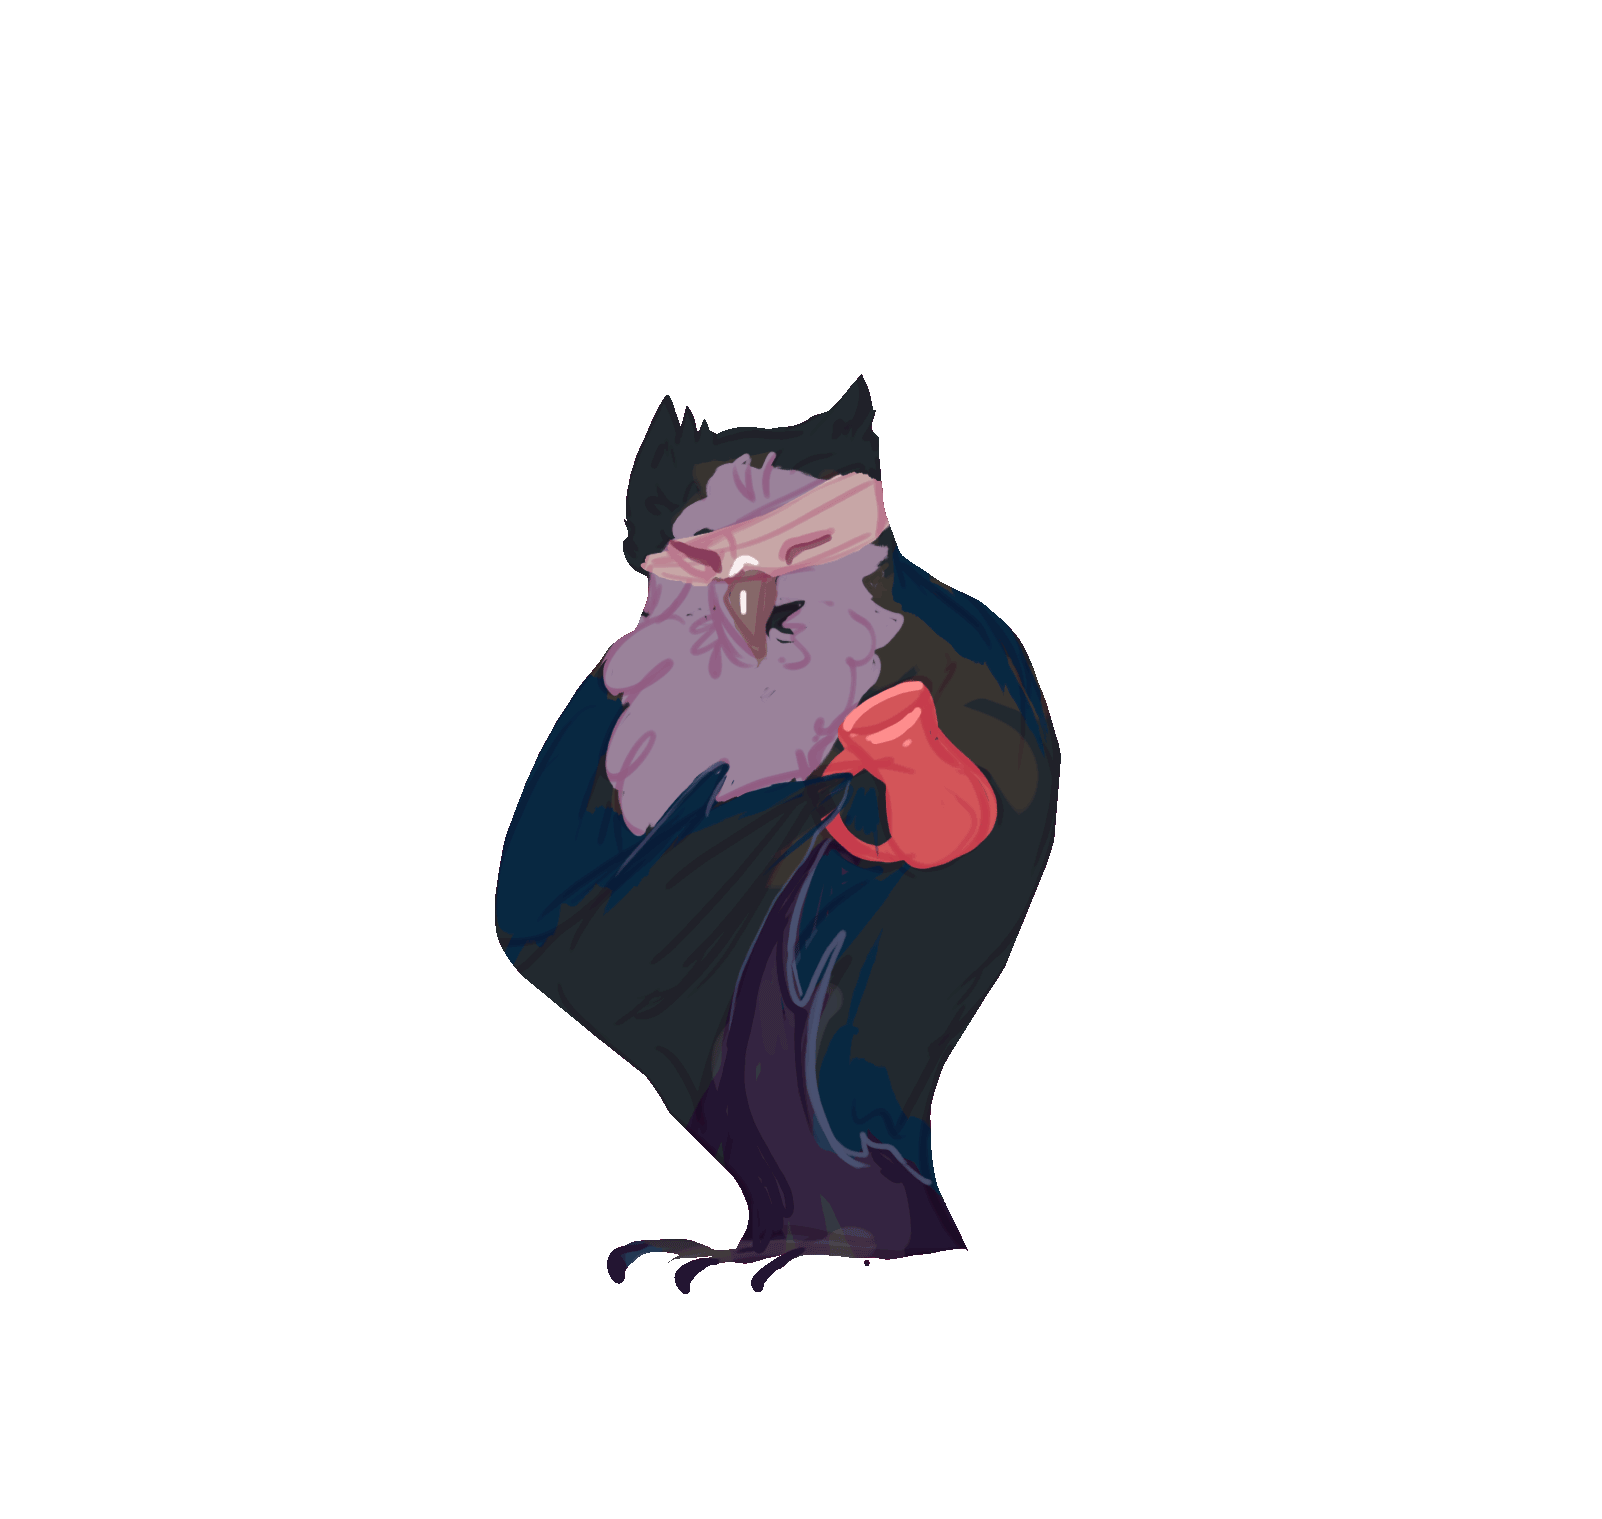
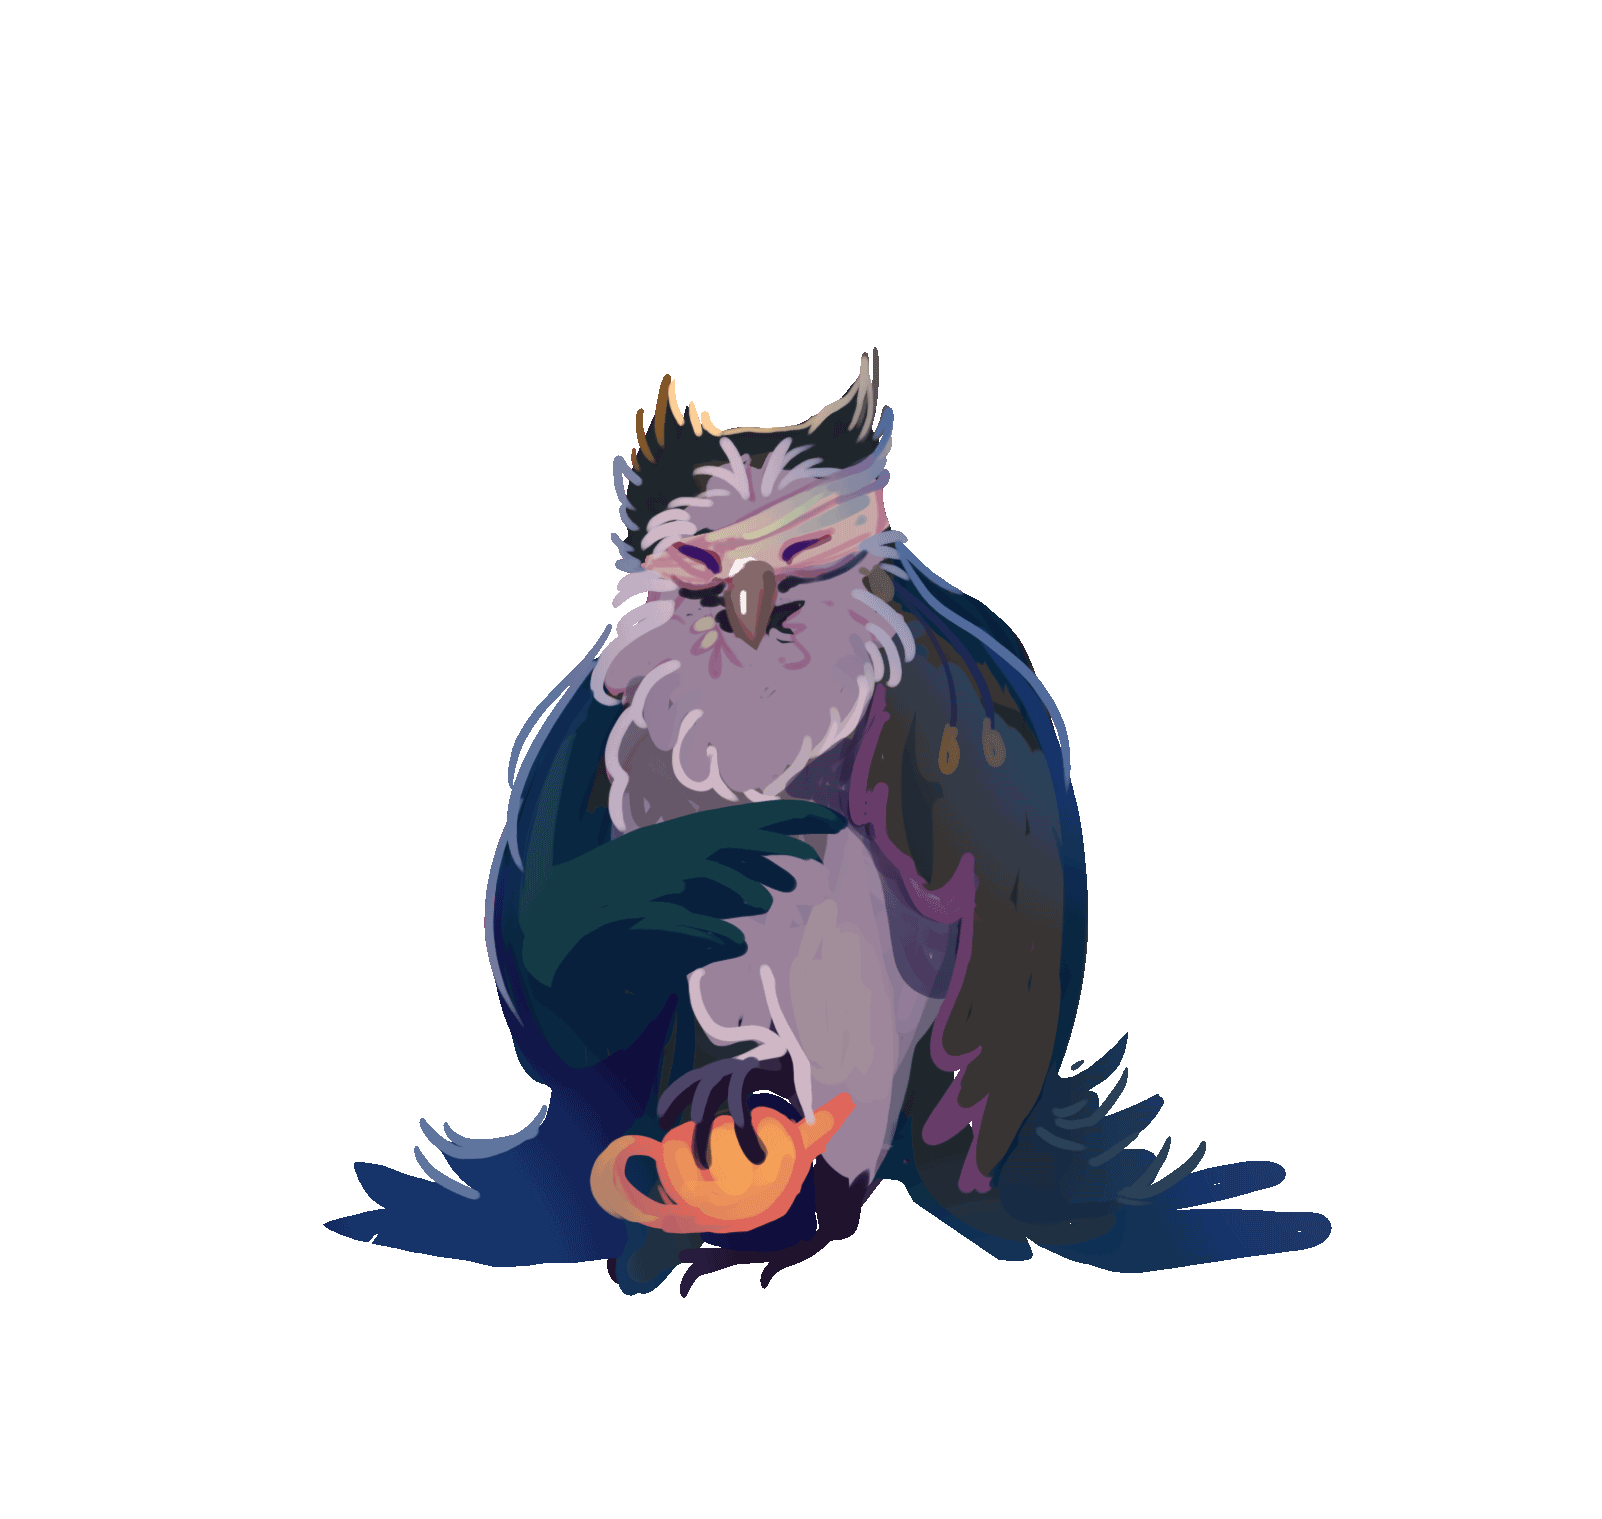
Larger fox, wedge on station

Changed region(s): [[0.1873, 0.2166, 0.8427, 0.8664]]

diff --git a/constants.js b/constants.js
@@ -31,7 +31,7 @@ var GAME_TITLE = "Blind Master's Kiln";
 
 // Shown along the bottom of the Start scene.
 var CREDITS = [
-    { role: "Game Dev", name: "Steve, Crystal, Jacke, Caleri, James" },
+    { role: "Game Dev", name: "Steve, Crystal, Jacke, Caleri, James, Josh" },
 ];
 
 //click timing
@@ -75,10 +75,10 @@ var WALK_PROGRESS_EPSILON = 0.5;
 // Fox movement and inventory; each 1000 g of clay carried takes 20% off the base speed.
 var FOX_SPEED = 250;
 // The fox's touch area is its sprite box shrunk by this many px on every side (the art has empty margins).
-var FOX_HITBOX_INSET = 25;
-// The fox's feet, relative to its 160x102 sprite box: the strip of the art (its paws sit around y 79) that
+var FOX_HITBOX_INSET = 32;
+// The fox's feet, relative to its 208x133 sprite box: the strip of the art (its paws sit around y 103) that
 // is stopped by the out-of-bounds masks. Nothing else about the fox collides.
-var FOX_FEET_BOX = {x: 35, y: 62, w: 90, h: 15};
+var FOX_FEET_BOX = {x: 45, y: 81, w: 117, h: 20};
 var FOX_SLOWDOWN_PER_KG = 0.2;
 var FOX_INVENTORY_CAPACITY = 2;
 // Dropped items: drawn DROPPED_ITEM_SCALE times their HUD size; each one the fox overlaps multiplies its
@@ -127,7 +127,7 @@ var COLLISION_ALPHA = 128;
 var COLLISION_SAMPLE_STEP = 6;
 var COLLISION_SNAP_STEP = 4;
 var COLLISION_SNAP_RADIUS = 400;
-// Where the fox appears (its x, y, top-left of the 160x102 sprite box) after using the door into that area.
+// Where the fox appears (its x, y, top-left of the 208x133 sprite box) after using the door into that area.
 // Pick spots clear of the masks and of both door zones, or the fox walks straight back through.
 // Optional facing: "right" or "left" forces which way the fox looks on arrival; leave it out to keep its facing.
 var DOOR_DESTINATIONS = {
@@ -184,6 +184,15 @@ var CLAY_IMAGES = {
     B: {url: "assets/images/clay_cube_B_black.png", w: 4836, h: 2268, crop: [1990, 994, 769, 628]},
     C: {url: "assets/images/clay_cube_C_white.png", w: 4836, h: 2268, crop: [2015, 909, 805, 711]}
 };
+
+// The wedged clay pictures (4836x2268 each) by clay letter, cropped to their opaque part. WEDGED_CLAY_BOX is the
+// area on the workbench (offset from the bench's top-left, bottom-aligned on its right half) the picture is fitted into.
+var WEDGED_CLAY_IMAGES = {
+    A: {url: "assets/images/wedged_clayA_red.png", w: 4836, h: 2268, crop: [2152, 864, 842, 602]},
+    B: {url: "assets/images/wedged_clayB_Black.png", w: 4836, h: 2268, crop: [2186, 858, 810, 610]},
+    C: {url: "assets/images/wedged_clayC_white.png", w: 4836, h: 2268, crop: [2176, 866, 796, 616]}
+};
+var WEDGED_CLAY_BOX = {x: 140, y: -40, w: 110, h: 85};
 
 // The HUD's left panels (inventory and Goal): wide enough for a label and 5 slots. Inventory slots wrap onto a new line at its edge.
 var HUD_PANEL_X = 10;
@@ -284,7 +293,7 @@ var MODEL_COLOR = "#8A8F98";
 var MAX_GLAZE_DIPS = 2;
 // Levels: false unlocks them in order as each is completed (the release setting); true opens every level on the
 // level select, for testing.
-var UNLOCK_ALL_LEVELS = false;
+var UNLOCK_ALL_LEVELS = true;
 // Dev mode: true adds a "Sandbox" button to the Start menu that loads SANDBOX_LEVEL (scenes/levels.js), with every
 // station, clay, model and glaze on, to try any combination. Keep false for releases.
 var DEV_MODE = false;

diff --git a/components/workbench.js b/components/workbench.js
@@ -21,6 +21,7 @@ Crafty.c("Workbench", {
         this.bind("MouseOut", function () { this.stopWedge(false); });
         this.bind("ModelReturned", this.returnModel);
         this.bind("Remove", function () {
+            this.hideWedgedClay();
             this.parts.forEach(function (part) { part.destroy(); });
         });
     },
@@ -124,6 +125,7 @@ Crafty.c("Workbench", {
             this.wedgeSound = WEDGE_SOUNDS[this.clayToWedge().clay.name];
             audioController.loopSfx(this.wedgeSound);
             this.wedging = true;
+            this.showWedgedClay(this.clayToWedge().clay);
             Crafty.trigger("HoldStarted", {ms: WEDGE_MS});
             this.delay(this.finishWedge, WEDGE_MS);
         }
@@ -138,9 +140,26 @@ Crafty.c("Workbench", {
             return;
         }
         this.wedging = false;
+        this.hideWedgedClay();
         Crafty.trigger("HoldEnded");
         if (spoken) {
             showStatus("You stopped wedging");
+        }
+    },
+
+    // The picture of the clay being wedged (by its letter), lying on the bench for as long as the hold lasts.
+    showWedgedClay: function(clay) {
+        var box = WEDGED_CLAY_BOX;
+        var fit = fitPicture(box, WEDGED_CLAY_IMAGES[clay.letter]);
+        this.wedgedPicture = Crafty.e("2D, DOM")
+            .attr({x: this.x + box.x, y: this.y + box.y, w: box.w, h: box.h, z: this.z + 1})
+            .css({backgroundImage: fit.layer, backgroundSize: fit.size, backgroundPosition: fit.position, backgroundRepeat: "no-repeat"});
+    },
+
+    hideWedgedClay: function() {
+        if (this.wedgedPicture) {
+            this.wedgedPicture.destroy();
+            this.wedgedPicture = null;
         }
     },
 
@@ -155,6 +174,7 @@ Crafty.c("Workbench", {
     finishWedge: function() {
         this.stopWedgeSound();
         this.wedging = false;
+        this.hideWedgedClay();
         Crafty.trigger("HoldEnded");
         var clay = this.clayToWedge();
         if (!clay) {

diff --git a/assets.js b/assets.js
@@ -79,7 +79,8 @@ var gameAssets = {
         "levelComplete": ["assets/sounds/Sounds/order succes 2.wav"]
     },
     // The collision masks are preloaded here and read by collisionMap.load() (components/collision_map.js).
-    "images": potImagePaths().concat(LOG_IMAGE.url, Object.keys(CLAY_IMAGES).map(function (letter) { return CLAY_IMAGES[letter].url; }), COLLISION_AREAS.map(function (area) { return area.mask; }),
+    "images": potImagePaths().concat(LOG_IMAGE.url, Object.keys(CLAY_IMAGES).map(function (letter) { return CLAY_IMAGES[letter].url; }),
+        Object.keys(WEDGED_CLAY_IMAGES).map(function (letter) { return WEDGED_CLAY_IMAGES[letter].url; }), COLLISION_AREAS.map(function (area) { return area.mask; }),
         Object.keys(FIRE_BADGES).map(function (n) { return FIRE_BADGES[n].url; })),
     "sprites": {
         "assets/images/background_outside_map.png": {

diff --git a/scenes/game.js b/scenes/game.js
@@ -70,7 +70,7 @@ function buildWorld(config) {
     var owl = null;
     if (config.inside) {
         owl = Crafty.e("2D, DOM, owl, Mouse, Potter")
-            .attr({x: -1660, y: 327, w: 160, h: 152});
+            .attr({x: -1684, y: 281, w: 208, h: 198});
 
         // Clicking the owl the fox is touching takes his oldest finished pot while the fox has a free slot; with a full
         // pack it gives him what he can work on instead (a pot to trim, or wedged clay and a model, see

diff --git a/components/fox.js b/components/fox.js
@@ -10,7 +10,7 @@
 Crafty.c("Fox", {
     init: function() {
         this.requires("2D, DOM, fox, Fourway, Collision, Keyboard");
-        this.attr({w: 160, h: 102});
+        this.attr({w: 208, h: 133});
         // Touching uses the sprite box shrunk by FOX_HITBOX_INSET, not the transparent margins of the art.
         var inset = FOX_HITBOX_INSET;
         this.collision([inset, inset, this.w - inset, inset, this.w - inset, this.h - inset, inset, this.h - inset]);

diff --git a/PRD/ui-panel-art.md b/PRD/ui-panel-art.md
@@ -1,0 +1,43 @@
+# PRD: Painted UI panels behind the HUD text
+
+**Goal** — Replace the flat parchment/brown HUD rectangles with the painted pink panels in `assets/images/UI/`, drawn underneath the existing text.
+
+**Context**
+- Each `UI/*.png` is a 5763x2458 canvas, transparent except one panel (positions mirror `UI_overlay_reference.png`, a layout mock, not 1:1 with the game). Each must be cropped to its opaque area, then stretched to the element it backs.
+- Today the panels are `Color` entities: left HUD panel (`components/game_hud.js`, x10 y10 w330), Goal panel (`showGoalPanel`, `scenes/levels.js`), order score bar and cards (`components/orders.js`), Restart/Menu `HudButton`s (`showLevelButtons`).
+- Text, slots, bars and click handling stay as they are; only the backdrop changes. HUD z is 999+.
+
+**Scope** — Mapping: `inventory.png` → left HUD panel (Fox/Master/Kiln rows); `taskbox.png` → Goal panel; `potterytasks.png` → order "Total Score" bar; `restart.png` / `menu.png` → the two buttons. Register the images in `assets.js`, add a crop table in `constants.js`, add a small helper that draws a cropped image at a rect (reuse the `WEDGED_CLAY_IMAGES` crop approach).
+**Out of scope** — Order cards, weighing panel, start/menu scenes, text/slot restyling, the reference mock itself.
+
+**Flow**
+1. Start a level: left panel, Goal box, Restart, Menu and score bar show painted art with their text on top.
+2. Hover/click Restart/Menu: sound and action as today; the cracked-pot pulse still reads (art tinted/overlaid red, not hidden).
+3. Panel grows (more inventory rows or Goal lines): art stretches to the new height.
+
+**Requirements**
+1. Each image is cropped to its opaque bounds (no empty canvas drawn) and sized to the rect of the element it backs, behind that element's text/slots.
+2. The old `Color` backdrop of those elements is removed (no parchment showing at the art's irregular corners).
+3. Art ignores mouse; buttons stay clickable; fox's click-through check (`fox.js:302`) unchanged.
+4. Text colour stays readable on the pink (adjust `HUD_TEXT_COLOR`/button text only if it fails).
+
+**Acceptance criteria**
+- [ ] All five elements show their painted art in-game, text legible on top.
+- [ ] Left panel art stretches correctly with 1, 2 and 3 inventory rows (Fox only / +Master / +Kiln).
+- [ ] Restart/Menu click, hover sound and cracked-pot alarm still work.
+- [ ] No console errors; nothing else on screen shifts.
+
+**Constraints** — `assets.js`, `constants.js`, `components/game_hud.js`, `scenes/levels.js`, `components/orders.js`. ES5, no build step.
+
+**Open questions**
+1. `box.png` (plain wide pink box, no dots) isn't in the reference mock. Which element is it for (e.g. weighing panel, dialog), or skip for now? Assumed: skip.
+2. Stretch art to fit the rect (may distort the hand-drawn edges) vs. keep aspect and adjust the rect? Assumed: stretch.
+
+**Tasks**
+- [ ] Measure opaque bounds of the 5 images; add crop table
+- [ ] Register images in `assets.js`
+- [ ] Add draw-cropped-image helper
+- [ ] Swap left HUD panel backdrop (grows with rows)
+- [ ] Swap Goal panel backdrop
+- [ ] Swap Restart/Menu and score-bar backdrops (keep alarm pulse)
+- [ ] Verify in browser

diff --git a/PRD/bigger-characters-wedged-clay-art.md b/PRD/bigger-characters-wedged-clay-art.md
@@ -1,0 +1,39 @@
+# PRD: Bigger fox and owl, wedged clay art
+
+**Goal** — Draw the fox and owl 30% larger, and show a picture of the clay (by colour) on the workbench while it is wedged.
+
+**Context**
+- Fox is a 160x102 sprite box (`components/fox.js`), with `FOX_HITBOX_INSET` 25 and `FOX_FEET_BOX` {35, 62, 90, 15} tied to that box. Owl is 160x152 at (-1660, 327) in `scenes/game.js`.
+- Wedging is a 3 s hold on the Workbench's bare right half (`components/workbench.js`); nothing is drawn there today.
+- New art: `assets/images/wedged_clayA_red.png`, `wedged_clayB_Black.png`, `wedged_clayC_white.png` (4836x2268, like the clay cubes). Opaque parts: A [2152, 864, 842, 602], B [2186, 858, 810, 610], C [2176, 866, 796, 616].
+
+**Scope** — Scale both sprites and their hitboxes 1.3x; add `WEDGED_CLAY_IMAGES` (letter → url, crop) in `constants.js`; draw the picture on the bench's wedging half.
+**Out of scope** — Collision masks, owl/fox art, HUD slot pictures, wedging rules/timing.
+
+**Flow**
+1. Fox holds weighed red/black/white clay at the bench and holds the mouse.
+2. The matching A/B/C wedged-clay picture appears centred on the bench's right half.
+3. It stays until the hold ends (finish, release, or walking off); then it disappears.
+
+**Requirements**
+1. Fox box is 208x133; `FOX_HITBOX_INSET` and `FOX_FEET_BOX` scaled 1.3x (32, {45, 81, 117, 20}); fox spawn/door positions still clear of masks.
+2. Owl box is 208x198, feet and centre kept where they were (x -1684, y 281).
+3. Picture chosen by `clay.letter` (red A, black B, white C), cropped to its opaque area, aspect preserved, fitted within the bench's right half.
+4. Shown only while wedging, above the bench colour, below the fox.
+
+**Acceptance criteria**
+- [x] Fox and owl look 30% bigger in game; owl still stands on the same spot.
+- [ ] Fox still can't walk onto out-of-bounds ground and touches stations as before (hitbox scaled). Not walked through in-game; only touching at the bench was checked.
+- [x] Holding on the bench with red / black / white clay shows picture A / B / C respectively.
+- [x] Picture vanishes on finish, release, and walking away; no console errors.
+
+**Constraints** — `constants.js`, `assets.js` (preload), `components/fox.js`, `components/workbench.js`, `scenes/game.js`. ES5, no build step.
+
+**Open questions** — Should the picture stay on the bench after wedging finishes (until the clay is picked up)? Assumed no: only while wedging.
+
+**Tasks**
+- [x] Scale fox box, hitbox inset, feet box
+- [x] Scale owl box, keep feet position
+- [x] Add WEDGED_CLAY_IMAGES and preload
+- [x] Draw/remove picture in Workbench start/stop wedge
+- [x] Verify in browser

diff --git a/PRD/interior-three-layers.md b/PRD/interior-three-layers.md
@@ -1,0 +1,24 @@
+# PRD: Interior art in three layers
+**Goal** — Draw the new interior (new door, all workstations) from the three layer PNGs instead of the old single background + overlay.
+**Context**
+- `scenes/game.js:48-53` draws `backgroundInside` (`background_inside.png`, z -1) and `overlayInside` (`interior-overlay-glazing.png`, z 50) at `INSIDE_MAP_BOX`; sprites registered in `assets.js:91-100`.
+- New `background_interior-{bg,mid,front}.png` (already updated in place) are all 8364×2246, same as the old art, so `INSIDE_MAP_BOX` fits unchanged.
+- Fox/stations z 0 (glaze buckets z 0), dropped items z 20, HUD ≥ 999. `front` holds the walk-behind items (shelf, tables, clutter); `mid` holds back furniture (right-hand tables, tongs, shelf).
+**Scope** — Register 3 sprites, draw 3 entities, retire the old two sprites. **Out of scope** — editing art, moving stations/hitboxes/door boxes/masks (art owner's layout), deleting old PNG files.
+**Flow**
+1. Fox walks through the outside door → interior shows bg, mid behind him, front over him.
+2. Fox walks behind front-layer items and is covered; in front of mid-layer items.
+**Requirements**
+1. `assets.js` maps `backgroundInterior`, `midInterior`, `frontInterior` (8364×2246 tiles); `backgroundInside`/`overlayInside` entries removed.
+2. `game.js` draws bg at z -2, mid at z -1, front at z 50, all at `INSIDE_MAP_BOX`.
+3. Glaze buckets (z 0) still visible above bg/mid; front covers them as the old overlay did.
+**Acceptance criteria**
+- [ ] Inside shows the new door and every workstation; no console/404 errors.
+- [ ] Fox is hidden behind front items, drawn over mid items.
+- [ ] With `DEBUG_HITBOXES`, stations, door and masks line up with the new art (report any that don't).
+**Constraints** — `assets.js`, `scenes/game.js` only.
+**Open questions** — Does the new art move any station or the inside door? If so, give new positions or I'll only report the drift.
+**Tasks**
+- [ ] Swap sprite entries in `assets.js`
+- [ ] Draw three layers in `game.js`
+- [ ] Verify in browser, check alignment
